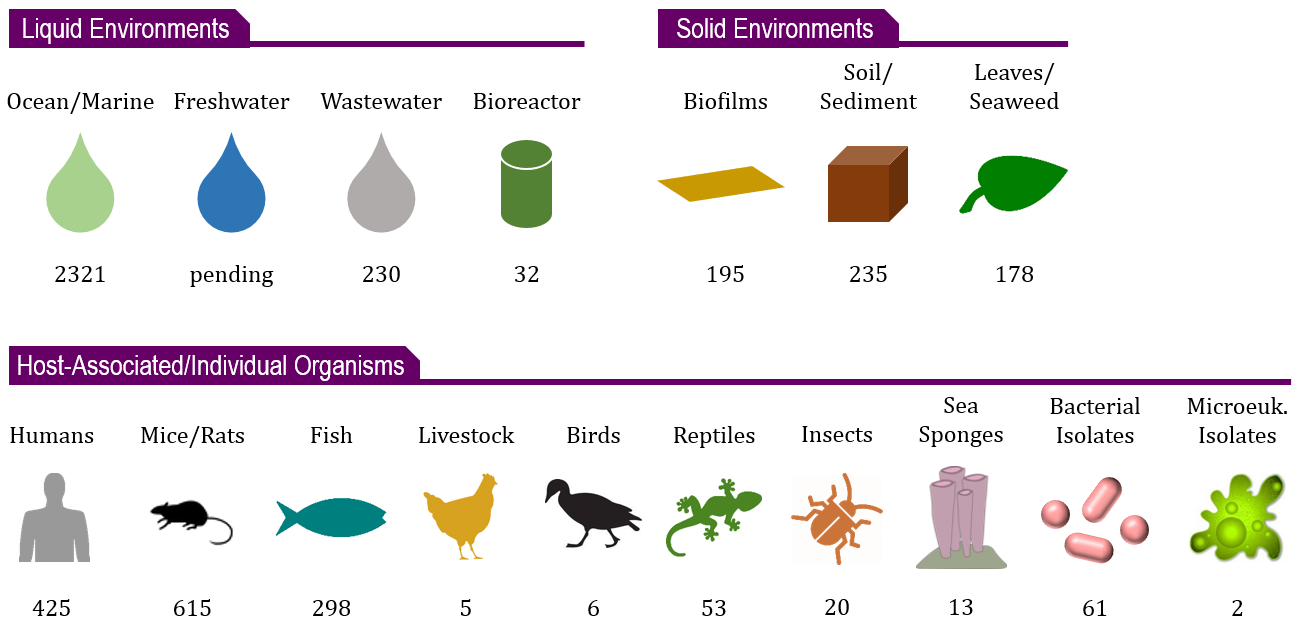
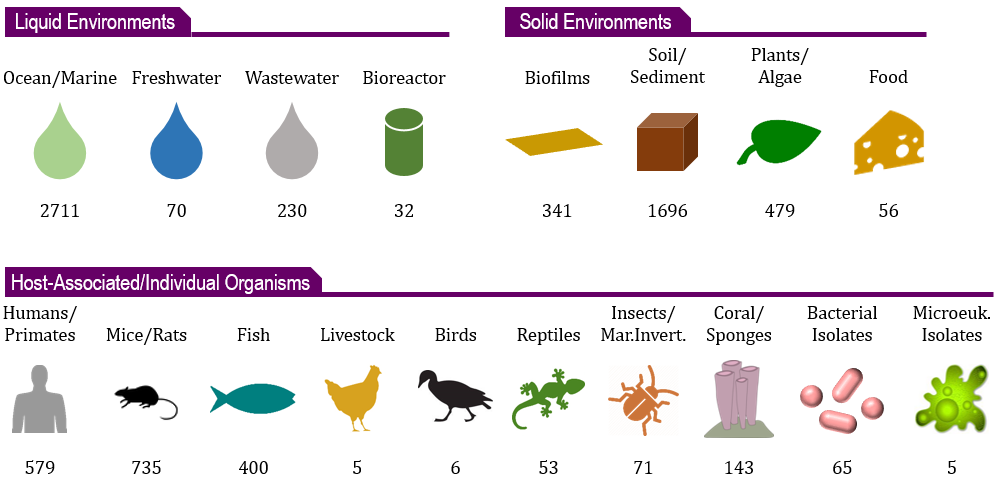
Achievements

diff --git a/achieve.html b/achieve.html
@@ -93,9 +93,9 @@
 								<h3>IMR Overall Progress</h3>
 							</header>
 							<p>
-								As of the end of 2015, we completed 19 productive runs, containing nearly <b>4700 samples</b>, covering <b>52 different scientific projects</b> of IMR Members, other 
-								academics and commercial clients. We have sequenced over <b>420 million reads</b> containing over <b>230 billion bases</b>...and these numbers are growing continuously...
-								<p><center><img src="images/IMR-ProgressDec2015.png" width="600"></center>
+								As of the end of March 2016, we completed Run 31, containing over <b>7,600 samples</b>, covering <b>75 different scientific projects</b> of IMR Members, other 
+								academics and commercial clients. We have sequenced over <b>600 million reads</b> containing over <b>336 billion bases</b>...and these numbers are growing continuously...
+								<p><center><img src="images/IMR-ProgressMar2016.png" width="700"></center>
 							</p>
 						</section>
 						<section>
@@ -103,7 +103,7 @@
 								<h3>Summary of Sample Types/Origins</h3>
 							</header>
 							<p>
-								The 52 different projects so far undertaken at the IMR cover varying subjects, ranging from "pure" <b>environmental research of the oceans</b> to applied research in 
+								The 75 different projects so far undertaken at the IMR cover varying subjects, ranging from "pure" <b>environmental research of the oceans</b> to applied research in 
 								<b>wastewater treatment and bioreactors</b> to <b>mouse model studies and human clinical trials</b>. The range of sample types/origins so far examined are outlined in the 
 								below infographics:
 								<p><center><img src="images/Samples.png" height="400"></center>
